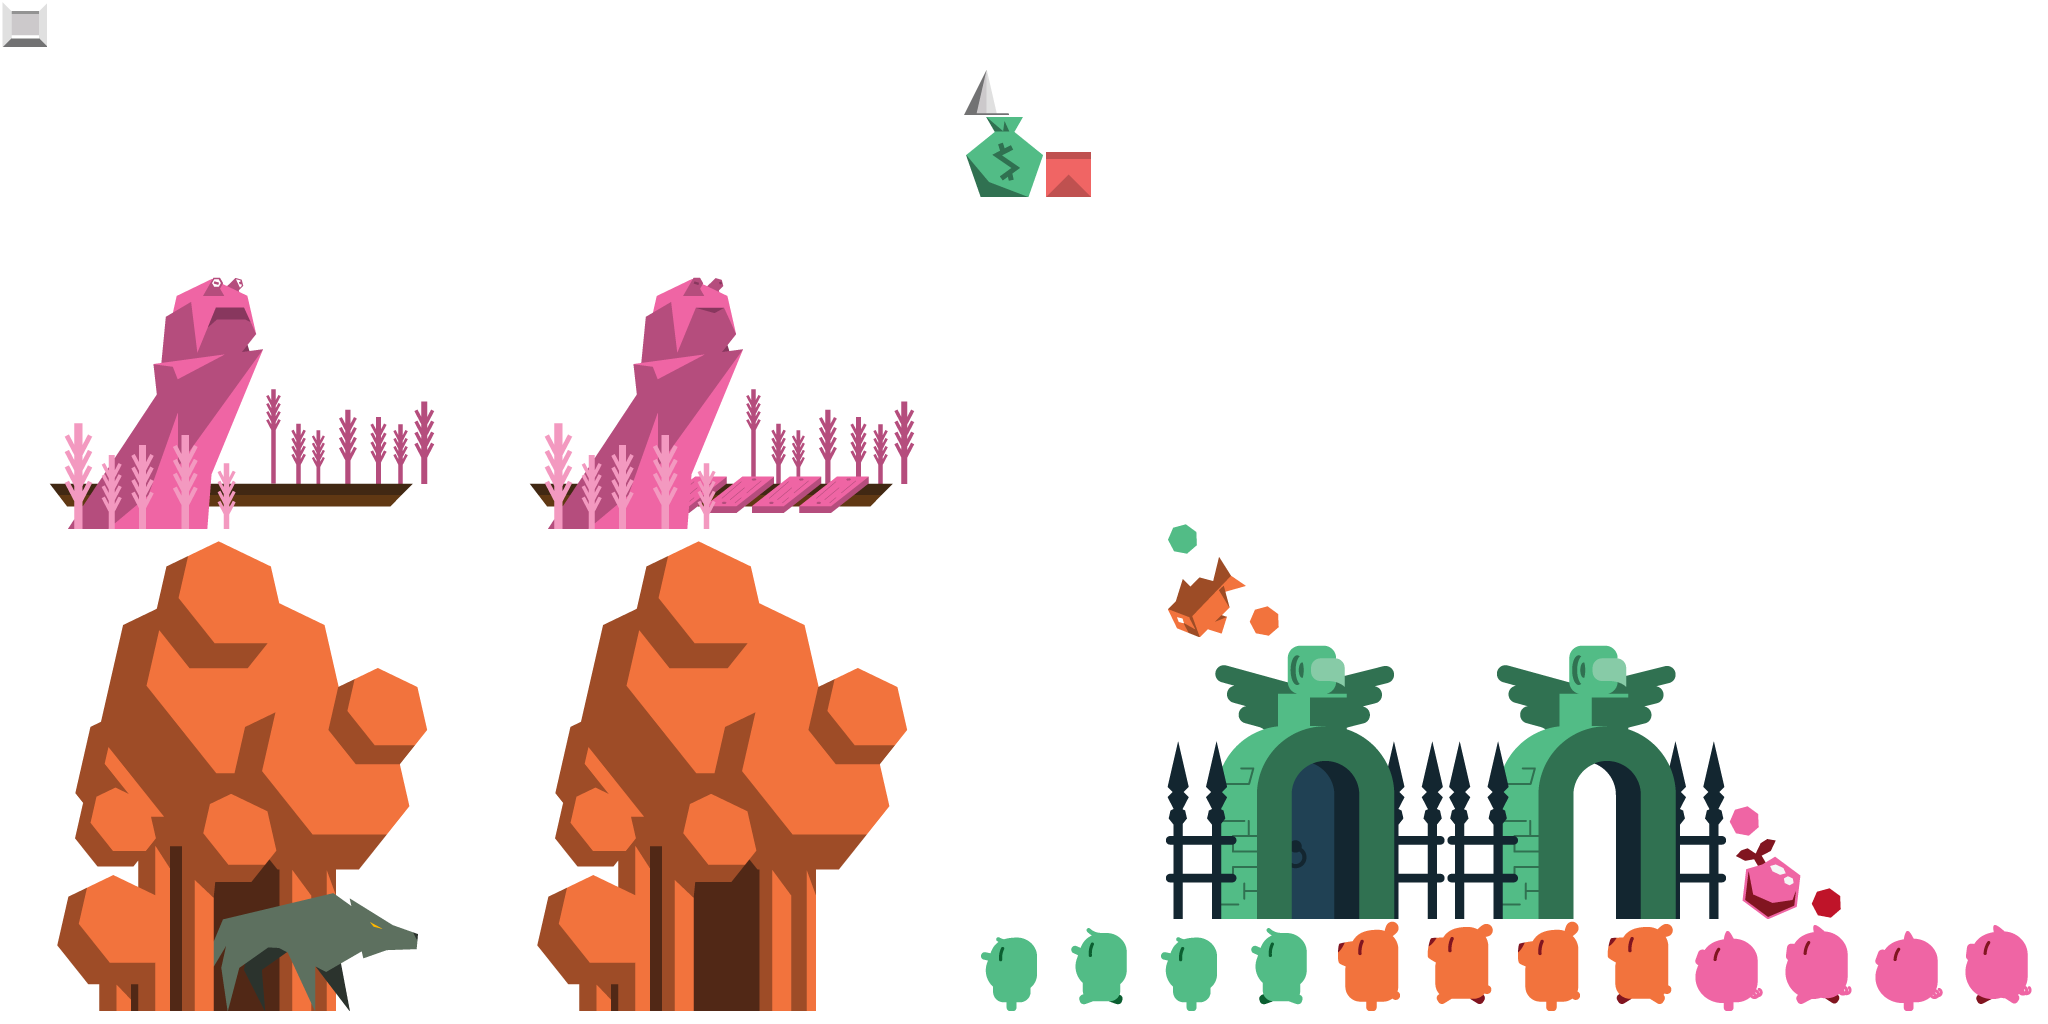
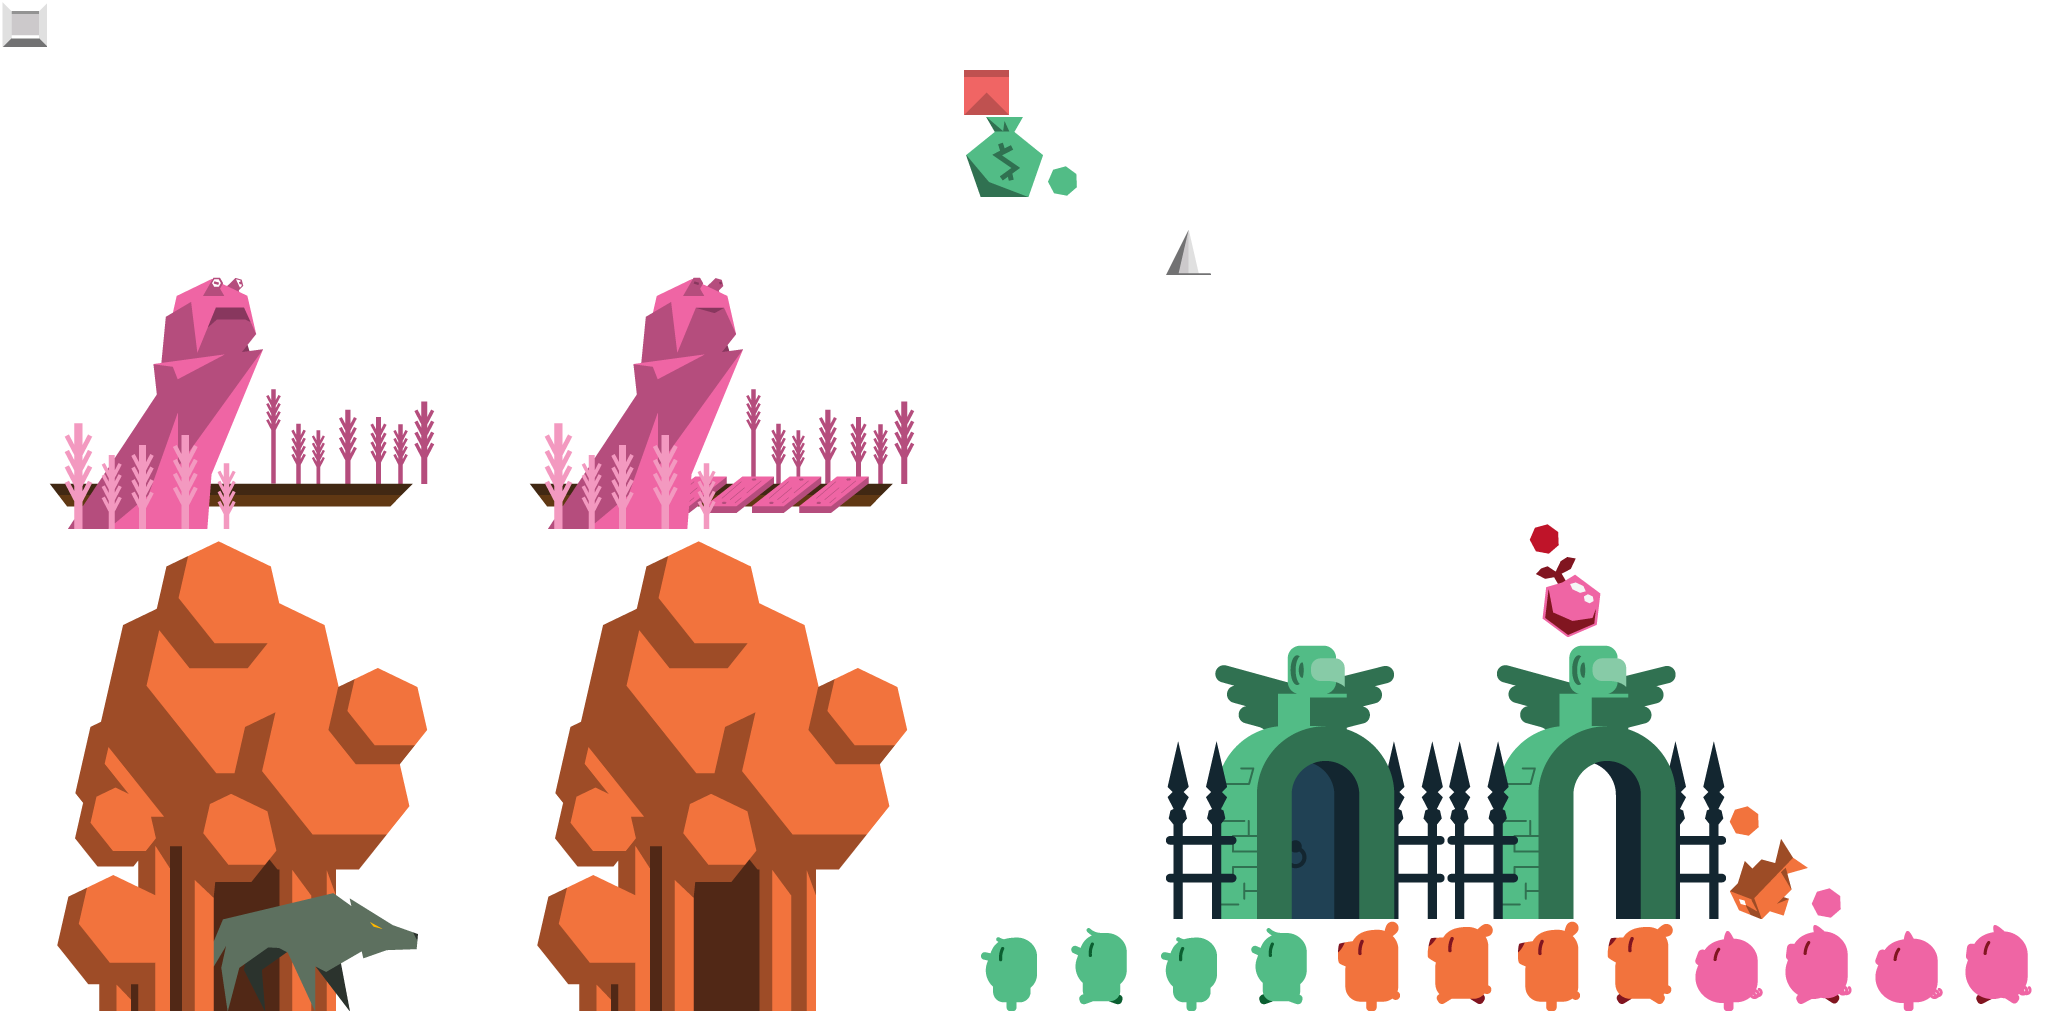
Added clouds

diff --git a/core/src/net/peterme/agj/Clouds.java b/core/src/net/peterme/agj/Clouds.java
@@ -1,0 +1,61 @@
+package net.peterme.agj;
+
+import java.util.Random;
+
+import com.badlogic.gdx.Gdx;
+import com.badlogic.gdx.graphics.Color;
+import com.badlogic.gdx.graphics.g2d.Batch;
+import com.badlogic.gdx.graphics.g2d.TextureAtlas;
+
+public class Clouds extends GameObject {
+
+	private class Cloud{
+		float x;
+		float y;
+		float rotation;
+		float scale;
+		public Cloud(float x, float y, float rotation, float scale){
+			this.x=x;
+			this.y=y;
+			this.rotation=rotation;
+			this.scale=scale;
+		}
+	}
+	private Cloud[] clouds;
+	private float originX;
+	private float originY;
+	public Clouds(TextureAtlas textures, Sounds sounds) {
+		super("Main/sky",textures, sounds);
+		originX=texture.getRegionWidth()/2;
+		originY=texture.getRegionHeight()/2;
+		clouds = new Cloud[8];
+		for(int i=0;i<clouds.length;i++){
+			clouds[i] = newCloud(i-2);
+		}
+	}
+	@Override
+	public void draw(Batch batch,float alpha){
+		Color c = batch.getColor();
+		batch.setColor(c.r, c.g, c.b, 0.3f);
+		for(Cloud cloud:clouds)
+			batch.draw(texture, cloud.x, cloud.y, originX, originY, texture.getRegionWidth(), texture.getRegionHeight(), cloud.scale, cloud.scale, cloud.rotation);
+		batch.setColor(c);
+	}
+	@Override
+	public void act(float delta){
+		for(int i=0;i<clouds.length;i++){
+			Cloud cloud = clouds[i];
+			cloud.x+=delta*20;
+			cloud.rotation+=10*(1-cloud.scale)*delta;
+			if(cloud.x>1280){
+				Gdx.app.log("Gone", "outside");
+				clouds[i] = newCloud(-2);
+			}
+		}
+	}
+	private Cloud newCloud(int i){
+		Random rand = new Random();
+		float scale = 0.2f+rand.nextFloat()*0.8f;
+		return new Cloud(1280/clouds.length*i+rand.nextInt(30),720-(int)originY-rand.nextInt(40),rand.nextInt(360),scale);
+	}
+}

diff --git a/core/src/net/peterme/agj/GameScene.java b/core/src/net/peterme/agj/GameScene.java
@@ -53,8 +53,9 @@ public class GameScene extends Scene {
 		//manBearPig.y=120;
 		manBearPig.setPosition(1022, 120);
 		//stage.addActor(partSystem);
-
 		addActor(bg);
+		addActor(new Clouds(textures,sounds));
+		addActor(ground);
 		obstacles=new ArrayList<Obstacle>();
 		pickups = new ArrayList<Pickup>();
 		for(Entity entity:level.entities){
@@ -159,7 +160,6 @@ public class GameScene extends Scene {
 		});*/
 		addActor(manBearPig);
 		addActor(new ScoreBoard(this,attempts));
-		addActor(ground);
 		if(attempts==0){
 			groundSpeed=0;
 		}else{
